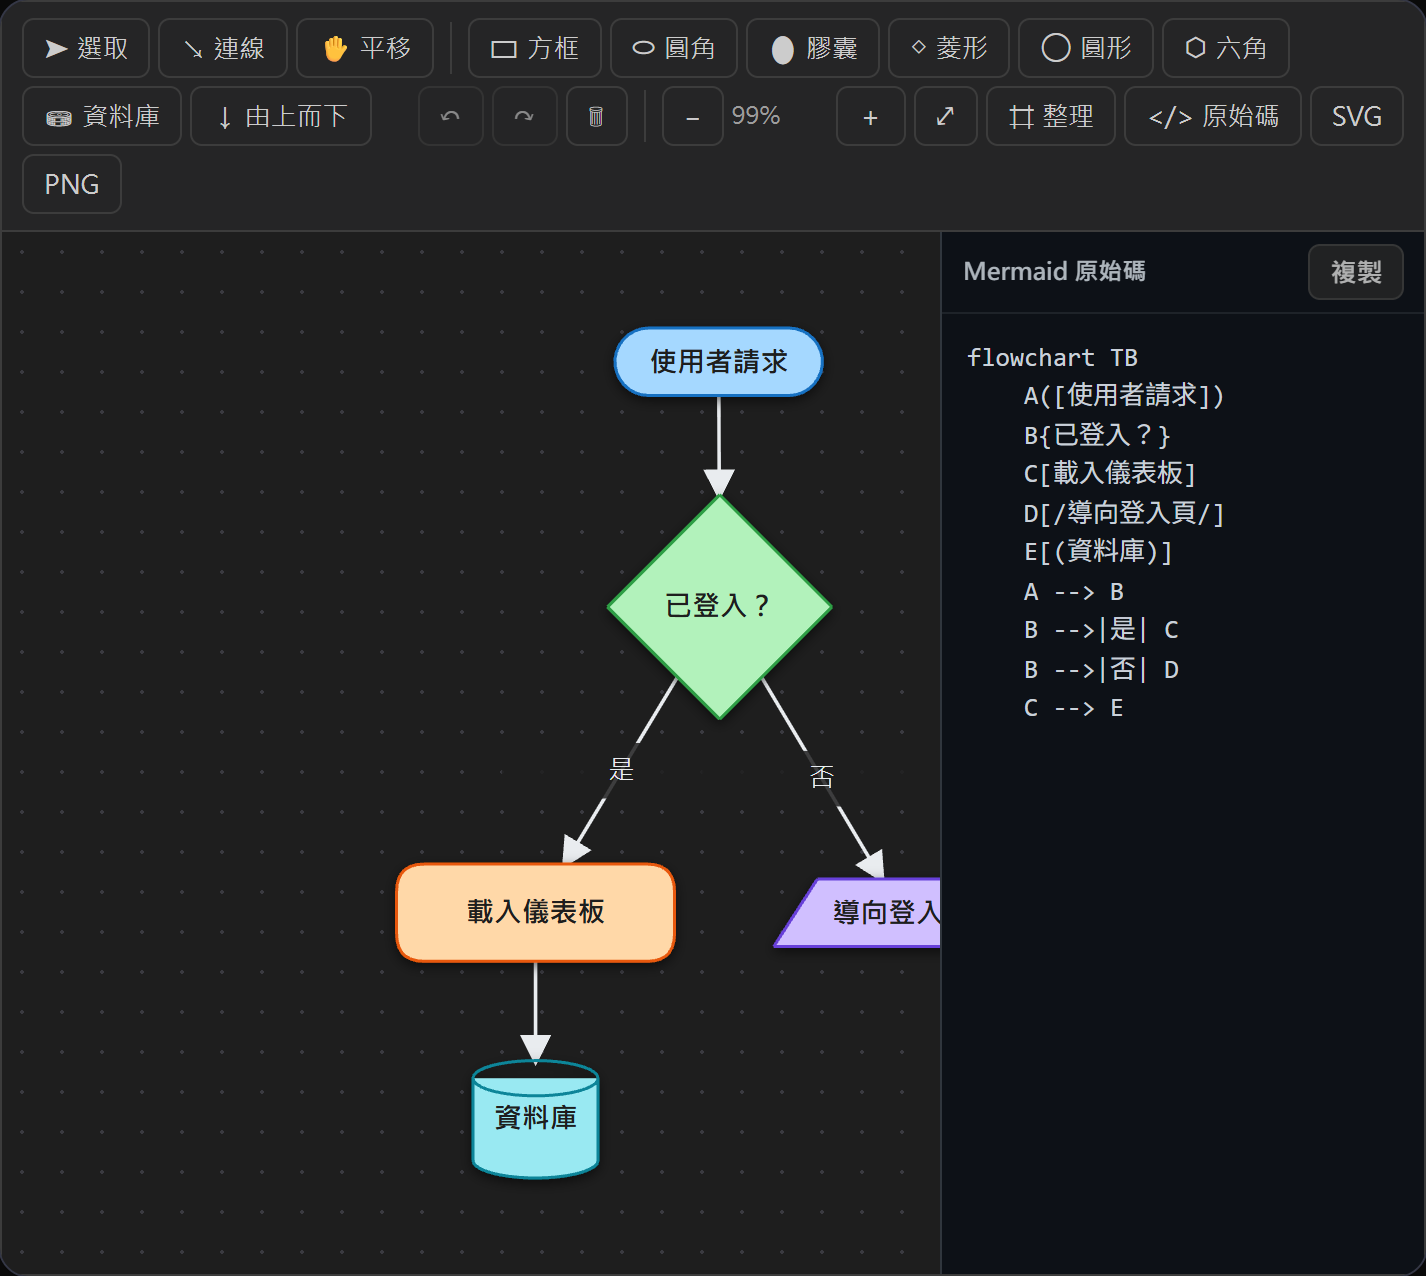
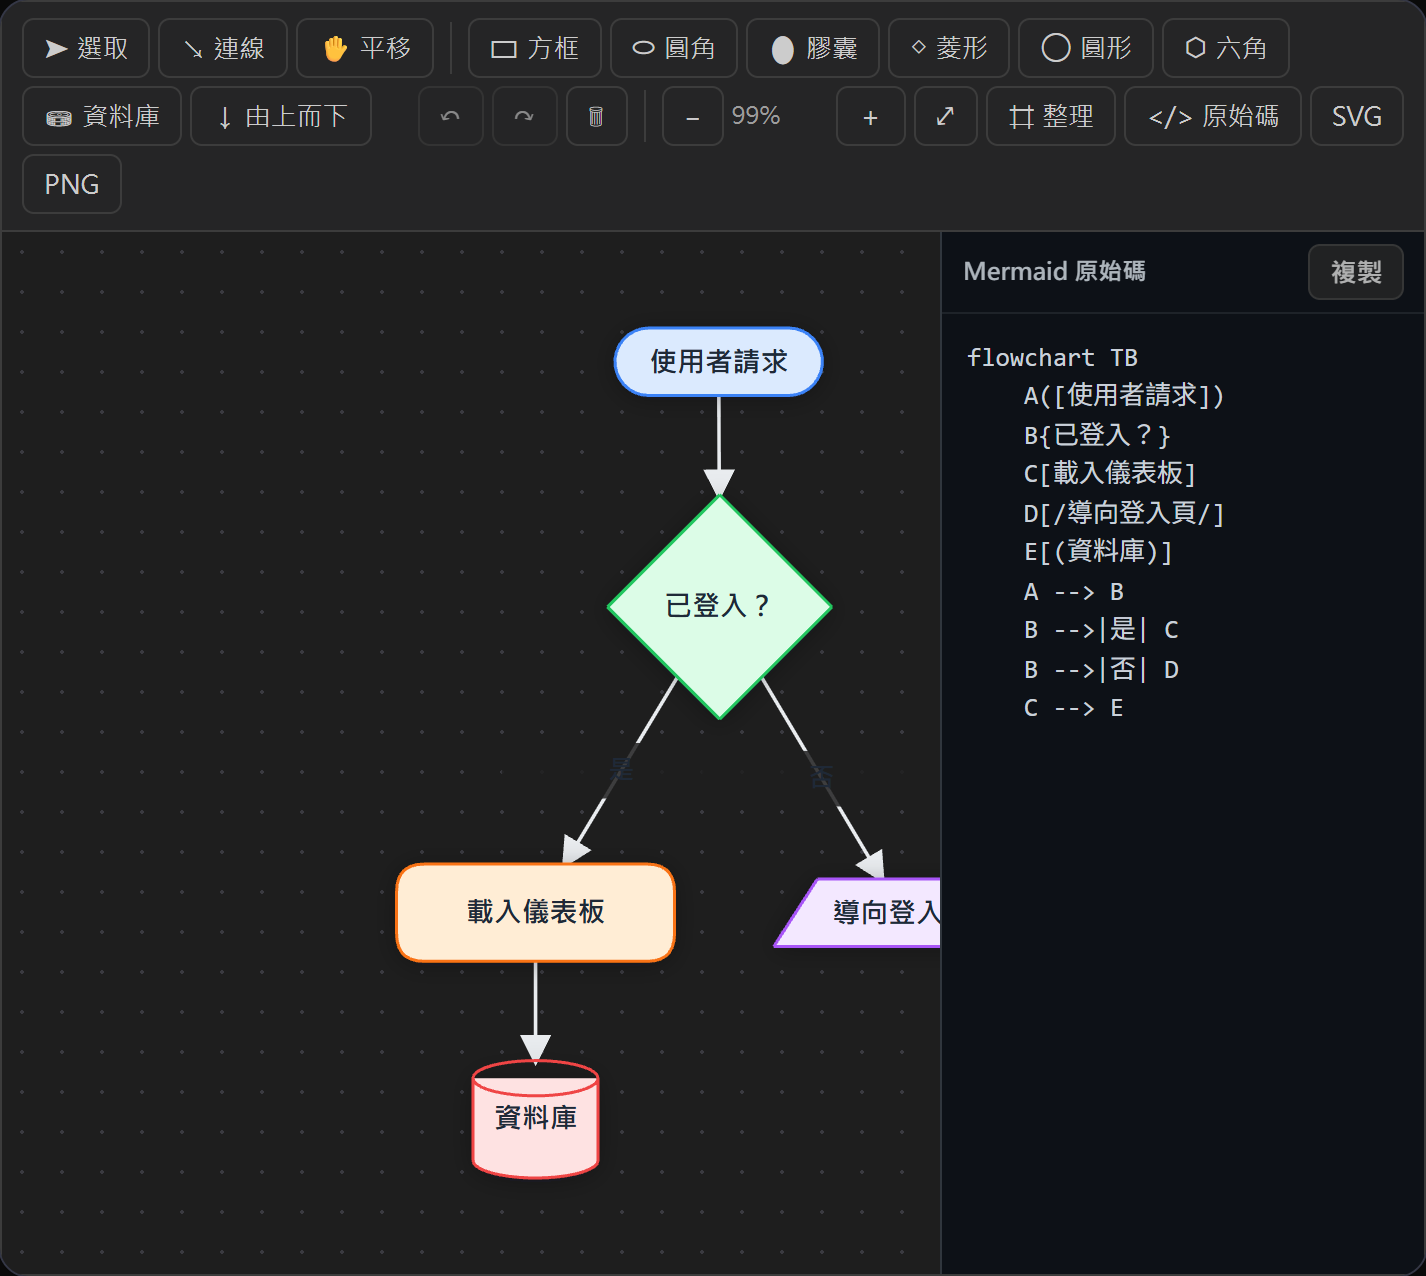
docs: README reflects all 6 drawable types + refreshed image
Draw now covers flowchart / state / ER / class / mindmap / sequence; updated
the "draw diagrams visually" section + refreshed docs/images/draw-editor.png.
Notes that data charts use the live preview instead.

diff --git a/README.md b/README.md
@@ -21,7 +21,7 @@ Every image in this README and in **[docs/DEMO.md](docs/DEMO.md)** was exported 
 
 ## ✏️ New: draw diagrams visually → get Mermaid
 
-Don't want to hand-write Mermaid? Click the **✏ Draw** CodeLens above any ```` ```mermaid ```` flowchart block (or run **Super Mermaid: Draw Diagram**) to open an **Excalidraw-style visual editor**. Drag to place shapes, drag from a node edge to connect — or drag to empty space to spawn a connected node — double-click to rename, right-click to recolor / change shape / align / group into subgraphs, toggle flow direction, and auto-tidy the layout. Everything writes straight back to your file as clean Mermaid, and existing flowcharts open as fully draggable diagrams.
+Don't want to hand-write Mermaid? Click the **✏ Draw** CodeLens above a ```` ```mermaid ```` block (or run **Super Mermaid: Draw Diagram**) to open an **Excalidraw-style visual editor** — now covering **six diagram types: flowchart, state, ER, class, mindmap, and sequence**. Drag to place shapes, drag from a node edge to connect (or to empty space to spawn a connected node), double-click to rename or edit cell content (ER attributes, class members, sequence messages), right-click for shape / colour / align / group / type-specific actions, build sequences from scratch, toggle direction, auto-tidy, and export SVG/PNG. The editor's colours match the live preview exactly, and everything writes straight back to your file as clean Mermaid (round-trip stable). Data charts (pie / gantt / journey / timeline / etc.) aren't drawn by dragging — use the live preview for those.
 
 ![Draw diagrams visually](docs/images/draw-editor.png)
 